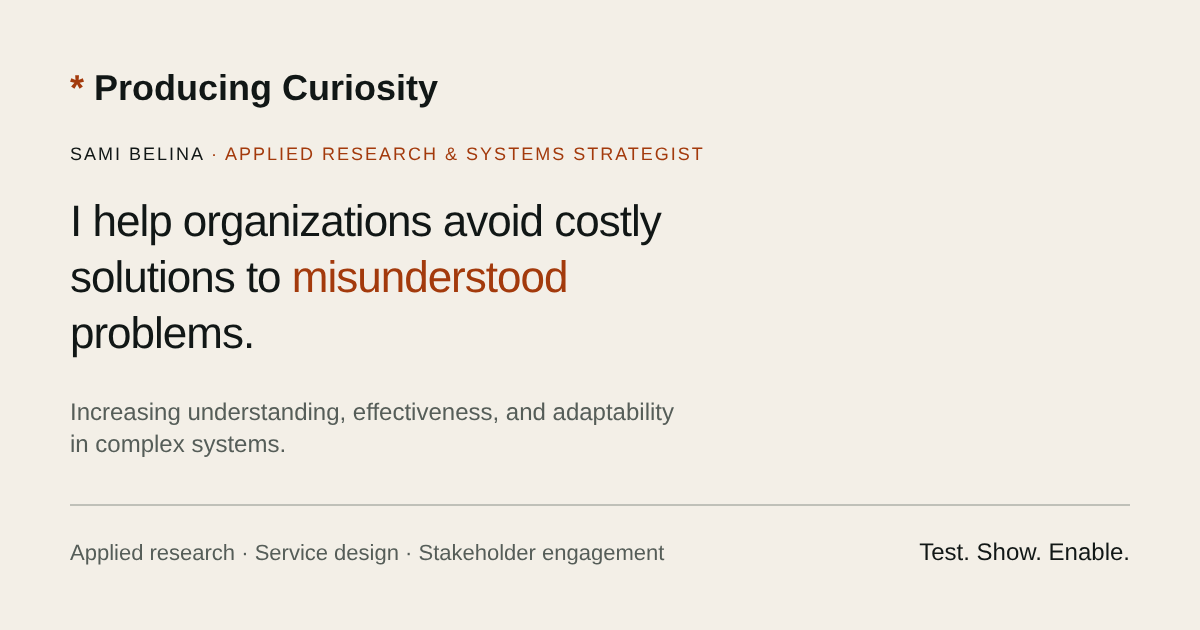
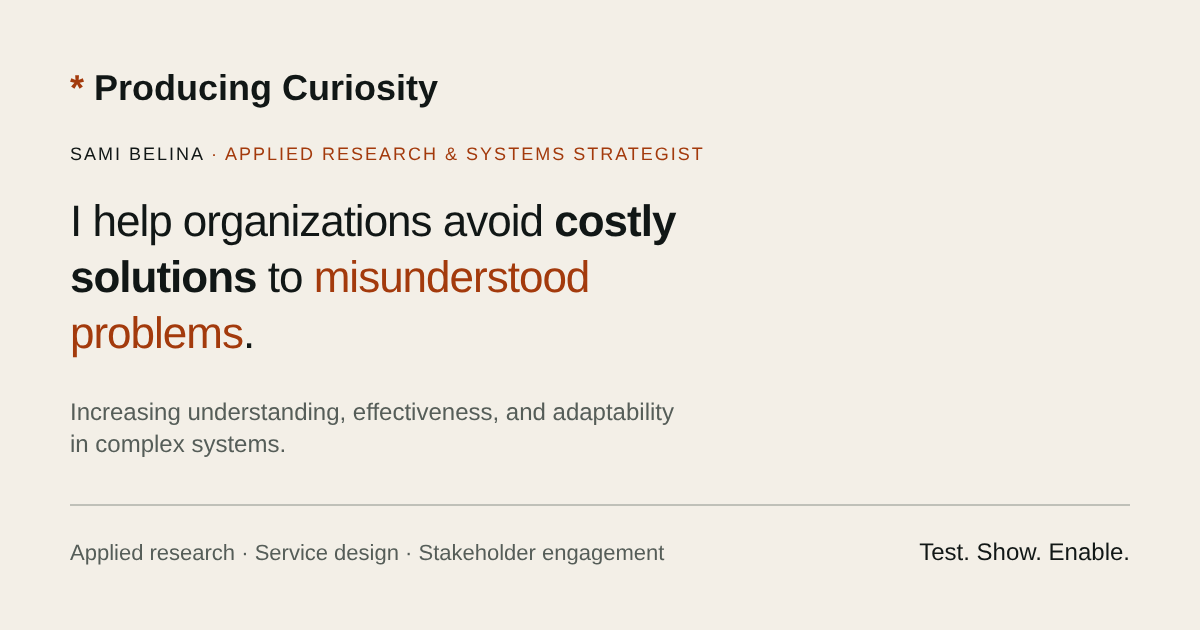
Headlines for the scanning reader; two emphases in the H1
Owner direction, 23 November: emphasize "costly solutions" and
"misunderstood problems" in two different ways, and review the
headlines for the designed-for reader.

- H1: "costly solutions" in heavier ink (the cost to avoid);
  "misunderstood problems" in orange (the turn). Same on the social
  preview image.
- Reader: a hiring leader or institutional decision-maker skimming
  10-60 seconds for who, which problem, proof of change, own role,
  method, contact. Recorded in the deck foundation.
- Case titles lead with the outcome or turn, one accent each, taken from
  the owner's deck where it had one: "Complete" now means verified; Two
  measures, kept apart; 38 proposals. 8 shared challenges; Usability is
  not recommendation; Organized by office. Asked by step; Passing
  checks. A separate question. Titles render the accent in headings and
  plain text in metadata, search and labels.
- Domain labels above case cards on the homepage and Investigations.
- Section headings: "Three problems, and what changed." replaces a
  rhetorical question; contact asks "Have a problem that keeps coming
  back?"
- Release prepared again for the changed titles.

Verified: build passed; affected specs 181 passed in Chromium, WebKit
and Firefox.

Claude-Session: https://claude.ai/code/session_01NYEdYjHJJXk5SrJAuyr7gg

Changed region(s): [[0.0617, 0.3921, 0.4933, 0.4825], [0.0617, 0.5127, 0.2158, 0.573], [0.4625, 0.3317, 0.5858, 0.3921]]

diff --git a/src/reading/ReadingPage.tsx b/src/reading/ReadingPage.tsx
@@ -11,7 +11,8 @@ import { inquirySpaceTitle } from '../inquiry-space/paths'
 import React, { type ReactNode } from 'react'
 import type { PublicEntry, PublicEvidence } from '../content/model'
 import type { ReadingPageData, ReadingContext } from './page-data'
-import { Stressed } from '../content/emphasis'
+import { plainText, Stressed } from '../content/emphasis'
+import { caseLabels } from '../content/primary-evidence'
 export type { ReadingPageData } from './page-data'
 
 type Block = PublicEntry['blocks'][number]
@@ -124,7 +125,7 @@ function Connections({ entry, projection }: { entry: PublicEntry; projection: Re
                 const evidence = projection.evidence.find(item => item.id === id)
                 return evidence ? <EvidenceDisclosure evidence={evidence} key={id}/> : null
               })}
-              <a className="reading-related-link" href={publicPath(other.path)}>{other.title} <span aria-hidden="true">→</span></a>
+              <a className="reading-related-link" href={publicPath(other.path)}>{plainText(other.title)} <span aria-hidden="true">→</span></a>
             </li>
           )
         })}
@@ -145,11 +146,11 @@ function EntryView({ entry, page }: { entry: PublicEntry; page: ReadingPageData 
         <a href={publicPath("/")}>Home</a><span aria-hidden="true">/</span>
         {entry.kind === 'investigation' ? <><a href={publicPath("/investigations/")}>Investigations</a><span aria-hidden="true">/</span></> : null}
         {inquiry && page.inquirySpacePath ? <><a href={publicPath(page.inquirySpacePath)}>{inquirySpaceTitle}</a><span aria-hidden="true">/</span></> : null}
-        <span aria-current="page">{entry.title}</span>
+        <span aria-current="page">{plainText(entry.title)}</span>
       </nav>
       <header className="reading-entry-header">
         <p className="reading-kicker">{inquiry ? inquiryForms[inquiry.form] : poetry ? 'Poetry' : entry.kind}{page.fixture ? ' · synthetic fixture' : page.illustrative ? ' · invented example' : page.candidate ? ' · unapproved candidate' : ''}</p>
-        <h1 id="reading-title" style={entry.kind === 'investigation' && !page.fixture ? { viewTransitionName: `case-${entry.slug}` } as React.CSSProperties : undefined}>{entry.title}</h1>
+        <h1 id="reading-title" style={entry.kind === 'investigation' && !page.fixture ? { viewTransitionName: `case-${entry.slug}` } as React.CSSProperties : undefined}><Stressed text={entry.title} heading/></h1>
         {page.candidate ? <p className="reading-candidate-notice" role="note">Owner-review preview. This candidate is not approved or published, and no statement has an attached source yet.</p> : null}
         <p className="reading-summary"><Stressed text={entry.summary}/></p>
         {entry.investigation ? <InvestigationVisual composition={entry.investigation.composition} {...entry.investigation.visual} /> : null}
@@ -182,7 +183,7 @@ function EntryView({ entry, page }: { entry: PublicEntry; page: ReadingPageData 
         <h2 id="deep-dive-title">Deep dive</h2>
         <p>This page is the public version. A longer version, with the process, working artifacts and sources in more detail, is available on request.</p>
         <p><a href={publicPath(`/deep-dive/${entry.slug}/`)}>Open the deep dive <span aria-hidden="true">→</span></a> <span className="reading-deep-dive-note">Password required.</span></p>
-        <p><a href={`mailto:${recruiterContact.email}?subject=${encodeURIComponent(`Deep dive access: ${entry.title}`)}`}>Request access by email</a></p>
+        <p><a href={`mailto:${recruiterContact.email}?subject=${encodeURIComponent(`Deep dive access: ${plainText(entry.title)}`)}`}>Request access by email</a></p>
       </section> : null}
       <div className="reading-body">
         {entry.blocks.map(block => <section className={`reading-block reading-block--${block.type}`} id={blockAnchor(block, entry)} key={block.id}><ContentBlock block={block} page={page} /></section>)}
@@ -203,7 +204,7 @@ function Collection({ projection, fixture, candidate = false }: { projection: Re
   return (
     <>
       <header className="reading-collection-header"><p className="reading-kicker">{fixture ? 'Seeing What Systems Miss' : practiceAreas.join(' · ')}</p><h1 id="reading-title">Investigations</h1><p className="reading-summary">Questions, evidence, contributions, and limits. Read the work directly, then follow a connection when its explanation is useful.</p></header>
-      {investigations.length ? <ul className="reading-cards">{investigations.map(entry => <li key={entry.id}><p className="reading-kicker">Investigation{candidate ? ' · unapproved candidate' : ''}</p><h2 style={entry.slug && !fixture ? { viewTransitionName: `case-${entry.slug}` } as React.CSSProperties : undefined}><a href={publicPath(entry.path)}>{entry.title}</a></h2>{entry.status ? <p className="reading-card-status"><CaseStatus status={entry.status}/></p> : null}{entry.stakes ? <p className="reading-card-stakes"><span className="reading-card-label">At stake:</span> <Stressed text={entry.stakes}/></p> : null}<p><Stressed text={entry.summary ?? ''}/></p><p className="reading-card-links"><a href={publicPath(entry.path)} aria-label={`Public version: ${entry.title}`}>Public version <span aria-hidden="true">→</span></a>{entry.deepDive && entry.slug && !candidate ? <> <a href={publicPath(`/deep-dive/${entry.slug}/`)} aria-label={`Deep dive, password required: ${entry.title}`}>Deep dive <span className="reading-deep-dive-note">(password)</span> <span aria-hidden="true">→</span></a></> : null}</p></li>)}</ul> : <div className="reading-empty"><p>No investigation is published in this edition yet. Each case awaits source, privacy and publication review.</p><p><a href={publicPath('/practice/')}>Read the inquiry practice →</a></p></div>}
+      {investigations.length ? <ul className="reading-cards">{investigations.map(entry => <li key={entry.id}><p className="reading-kicker">Investigation{entry.slug && caseLabels[entry.slug] ? ` · ${caseLabels[entry.slug]}` : ''}{candidate ? ' · unapproved candidate' : ''}</p><h2 style={entry.slug && !fixture ? { viewTransitionName: `case-${entry.slug}` } as React.CSSProperties : undefined}><a href={publicPath(entry.path)}><Stressed text={entry.title} heading/></a></h2>{entry.status ? <p className="reading-card-status"><CaseStatus status={entry.status}/></p> : null}{entry.stakes ? <p className="reading-card-stakes"><span className="reading-card-label">At stake:</span> <Stressed text={entry.stakes}/></p> : null}<p><Stressed text={entry.summary ?? ''}/></p><p className="reading-card-links"><a href={publicPath(entry.path)} aria-label={`Public version: ${plainText(entry.title)}`}>Public version <span aria-hidden="true">→</span></a>{entry.deepDive && entry.slug && !candidate ? <> <a href={publicPath(`/deep-dive/${entry.slug}/`)} aria-label={`Deep dive, password required: ${plainText(entry.title)}`}>Deep dive <span className="reading-deep-dive-note">(password)</span> <span aria-hidden="true">→</span></a></> : null}</p></li>)}</ul> : <div className="reading-empty"><p>No investigation is published in this edition yet. Each case awaits source, privacy and publication review.</p><p><a href={publicPath('/practice/')}>Read the inquiry practice →</a></p></div>}
       {patterns.length ? <section className="reading-patterns" aria-labelledby="reading-patterns-title"><p className="reading-kicker">Connected interpretation</p><h2 id="reading-patterns-title">Patterns to investigate</h2><ul>{patterns.map(entry => <li key={entry.id}><a href={publicPath(entry.path)}>{entry.title}</a><p>{entry.summary}</p></li>)}</ul></section> : null}
     </>
   )

diff --git a/src/BuildIndex.tsx b/src/BuildIndex.tsx
@@ -34,7 +34,7 @@ export default function BuildIndex({ investigations = [] }: { investigations?: r
   const introduction = useHomeIntroduction()
   const evidenceHref = primaryEvidenceHref(investigations)
   const selected = selectedInvestigations(investigations)
-  const pairs = investigations.filter(entry => entry.slug && entry.visual).map(entry => ({ slug: entry.slug!, label: caseLabels[entry.slug!] ?? entry.title, left: plainText(entry.visual!.left), right: plainText(entry.visual!.right), explanation: plainText(entry.visual!.explanation), href: publicPath(entry.path) }))
+  const pairs = investigations.filter(entry => entry.slug && entry.visual).map(entry => ({ slug: entry.slug!, label: caseLabels[entry.slug!] ?? plainText(entry.title), left: plainText(entry.visual!.left), right: plainText(entry.visual!.right), explanation: plainText(entry.visual!.explanation), href: publicPath(entry.path) }))
   useEffect(() => {
     const followLegacyFragment = () => {
       let fragment: string
@@ -50,7 +50,7 @@ export default function BuildIndex({ investigations = [] }: { investigations?: r
       <section className="pc-hero pc-hero--text" aria-labelledby="index-title">
         <div className="pc-hero-copy">
           <p className="pc-kicker pc-identity"><span className="pc-identity-name">Sami Belina</span> <span aria-hidden="true">·</span> {professionalIdentity}</p>
-          <h1 id="index-title">{homeHeadline.lead}<em className="pc-accent">{homeHeadline.accent}</em>{homeHeadline.end}</h1>
+          <h1 id="index-title">{homeHeadline.lead}<strong className="pc-weight">{homeHeadline.cost}</strong>{homeHeadline.middle}<em className="pc-accent">{homeHeadline.accent}</em>{homeHeadline.end}</h1>
           <p className="pc-lead">I investigate the human, informational, and operational conditions shaping outcomes—helping institutions uncover <strong>overlooked problems</strong>, redesign how their systems work, and strengthen people’s ability to make informed decisions and navigate change.</p>
           <p className="pc-hero-action pc-cluster"><a className="pc-text-link" href={publicPath(evidenceHref)}>{evidenceHref === '/investigations/' ? 'Examine the investigations' : 'Read the Claims investigation'} <span aria-hidden="true">→</span></a> <a className="pc-text-link pc-secondary-link" href={publicPath('/practice/')}>Explore my approach <span aria-hidden="true">→</span></a>{recruiterContact.resumeHref ? <> <a className="pc-text-link pc-secondary-link" href={publicPath(recruiterContact.resumeHref)}>View my résumé (PDF)</a></> : null}</p>
           <p className="pc-value">{valueLine}</p>
@@ -64,10 +64,11 @@ export default function BuildIndex({ investigations = [] }: { investigations?: r
       </section>
       <ResultsStrip investigations={investigations}/>
       {selected.length ? <section className="pc-section pc-selected" aria-labelledby="pc-selected-title">
-        <div className="pc-section-heading"><p className="pc-kicker">Selected investigations</p><h2 id="pc-selected-title">What becomes possible when we investigate the problem first?</h2></div>
+        <div className="pc-section-heading"><p className="pc-kicker">Selected investigations</p><h2 id="pc-selected-title">Three problems, and what <em className="pc-accent">changed</em>.</h2></div>
         <ol className="pc-selected-list">{selected.map(entry => <li key={entry.id}>
+          {entry.slug && caseLabels[entry.slug] ? <p className="pc-kicker pc-selected-domain">{caseLabels[entry.slug]}</p> : null}
           {entry.status ? <p className="pc-selected-status"><CaseStatus status={entry.status}/></p> : null}
-          <h3 style={entry.slug ? { viewTransitionName: `case-${entry.slug}` } as React.CSSProperties : undefined}><a href={publicPath(entry.path)}>{entry.title}</a></h3>
+          <h3 style={entry.slug ? { viewTransitionName: `case-${entry.slug}` } as React.CSSProperties : undefined}><a href={publicPath(entry.path)}><Stressed text={entry.title} heading/></a></h3>
           {entry.stakes ? <p className="pc-selected-stakes"><span className="pc-selected-label">At stake:</span> <Stressed text={entry.stakes}/></p> : null}
           {entry.brief ? <p><span className="pc-selected-label">What changed:</span> <Stressed text={entry.brief.result}/></p> : <p><Stressed text={entry.summary}/></p>}
           <p className="pc-selected-links"><a href={publicPath(entry.path)}>Public version <span aria-hidden="true">→</span></a>{entry.deepDive && entry.slug ? <> <a href={publicPath(`/deep-dive/${entry.slug}/`)}>Deep dive <span className="pc-selected-note">(password)</span> <span aria-hidden="true">→</span></a></> : null}</p>
@@ -101,7 +102,7 @@ export default function BuildIndex({ investigations = [] }: { investigations?: r
       </nav>
       <LensInterlude compact/>
       <section id="contact" className="pc-section pc-contact" aria-labelledby="contact-title">
-        <p className="pc-kicker">Work together</p><h2 id="contact-title">What needs a better explanation?</h2>
+        <p className="pc-kicker">Work together</p><h2 id="contact-title">Have a problem that keeps <em className="pc-accent">coming back</em>?</h2>
         <p>If an organization is investing time, money, or attention in a persistent problem without understanding why it continues, that is where my work begins.</p>
         <RecruiterActions label="Contact Sami Belina"/>
         <p className="pc-contact-secondary"><a href="https://www.linkedin.com/in/transplantsam">Professional experience on LinkedIn <ExternalArrow/></a></p>

diff --git a/content/release/cases.ts b/content/release/cases.ts
@@ -54,6 +54,7 @@ const claimsInvestigation = claimsCandidate.investigation!
 const claims: Entry = {
   ...claimsCandidate,
   revision: 3,
+  title: '“Complete” now means ==verified==.',
   editorialState: 'approved', visibility: 'public', authorIds: [owner], updatedAt: reviewed,
   summary: 'Total-loss claims could be paid *before* anyone confirmed the paperwork was sufficient. I traced where problems surfaced, **leadership moved the check before payment**, and the guides and training I built from administrators’ knowledge are used statewide.',
   evidenceIds: [caseEvidence.claims.id],
@@ -99,7 +100,7 @@ const claims: Entry = {
 
 const trust: Entry = {
   ...base('4c5ececa-e308-4a31-9566-b3cd2fc7a0b2', 'brand-research', '2026-11-22T00:00:00Z'),
-  title: 'Agreement is not trust.',
+  title: 'Two measures, kept ==apart==.',
   summary: 'A trust study could have produced one favorability score. I designed the survey’s measures so **agreement and trust influence were asked separately**, and a year later the readout is still cited in strategy briefs.',
   contribution: 'I set the general-to-specific interview sequence, proposed the perception-mapping framework and co-built it with two marketing and analytics leads, and separated agreement from trust influence in the survey. The external research partner conducted the interviews and fielded the survey.',
   evidenceIds: [caseEvidence.trust.id],
@@ -156,7 +157,7 @@ const trust: Entry = {
 
 const ai: Entry = {
   ...base('8a218cf2-1ad6-461a-af6e-3f7ccadd9429', 'enterprise-ai', '2026-11-20T00:00:00Z'),
-  title: '38 proposals. Eight shared challenges.',
+  title: '38 proposals. ==8== shared challenges.',
   summary: 'Nearly forty AI requests arrived without a shared way to compare them. I led a synthesis into eight challenge areas that teams could discuss and choose among, then coached in the sprint, which now runs every year.',
   contribution: 'I recognized the need for a synthesis and led it, tested the groupings with the sprint facilitator, then walked them through with innovation leadership, and was a lead and coach in the sprint, leading two ideas with one combined team. The innovation team owned the program.',
   evidenceIds: [caseEvidence.ai.id],
@@ -209,7 +210,7 @@ const ai: Entry = {
 
 const telematics: Entry = {
   ...base('1bb43e26-f27a-4493-b16f-e68682838023', 'telematics', '2026-11-20T00:00:00Z'),
-  title: 'Usability is not recommendation.',
+  title: 'Usability is ==not== recommendation.',
   summary: 'I was asked why participants were leaving a large discount program built around a usage-based insurance app. With unreliable audio, I recovered findings from on-screen behavior, and showed that a usable app and a recommended program are different questions.',
   contribution: 'I analyzed moderated sessions that others conducted, recovered findings from on-screen behavior, wrote the report and confirmed both scores, made opportunity recommendations, and took the report to the marketing analytics team.',
   evidenceIds: [caseEvidence.telematics.id],
@@ -262,7 +263,7 @@ const telematics: Entry = {
 
 const civic: Entry = {
   ...base('873dde95-923f-41a0-bd19-55041eb4aae1', 'civic-service', '2026-11-20T00:00:00Z'),
-  title: 'Organized by office. Asked by step.',
+  title: 'Organized by office. Asked by ==step==.',
   summary: 'Residents’ voting questions followed the steps in front of them, not the offices that publish the answers. As a volunteer co-founder of Vote Huntsville, I helped build one plain-language answer source used across every channel.',
   contribution: 'I co-founded the nonpartisan Vote Huntsville with other directors and volunteers, all unpaid. We gathered residents’ questions and built one shared, plain-language answer source used across channels.',
   evidenceIds: [caseEvidence.civic.id],
@@ -311,7 +312,7 @@ const civic: Entry = {
 
 const accessibility: Entry = {
   ...base('36e61934-b32a-4b04-a9c2-d6f99b73b5a2', 'accessibility-ai', '2026-11-20T00:00:00Z'),
-  title: 'Passing checks. A separate question.',
+  title: 'Passing checks. A ==separate== question.',
   summary: 'In an AI-assisted development experiment I originated, the accessibility agent restored code we removed on purpose. A planned human review still raised a question the automated checks did not settle.',
   contribution: 'I originated the experiment and co-facilitated it, the only participant from outside the department. A colleague advocated the idea to the organizer, and a developer conducted the human review.',
   evidenceIds: [caseEvidence.accessibility.id],

diff --git a/scripts/prerender.tsx b/scripts/prerender.tsx
@@ -79,7 +79,7 @@ async function page(file: string, data: ReadingPageData, title: string, descript
   await mkdir(path.dirname(target), { recursive: true }); await writeFile(target, html)
 }
 await page('investigations/index.html', { ...readingPageData(projection, 'collection', fixture), ...(candidate ? { candidate: true } : {}) }, 'Investigations — Producing Curiosity', 'Read investigations with evidence, contribution, limitations, and explained connections.', '/investigations/', reading.entries.length > 0)
-for (const entry of projection.entries) await page(`${entry.path.slice(1)}index.html`, { ...readingPageData(projection, 'entry', fixture, entry.id, fixture && entry.inquirySpace ? inquirySpacePath : undefined), ...(candidate ? { candidate: true } : {}) }, `${entry.title}${candidate ? ' — unapproved candidate' : ''} — Producing Curiosity`, plainText(entry.summary), entry.path)
+for (const entry of projection.entries) await page(`${entry.path.slice(1)}index.html`, { ...readingPageData(projection, 'entry', fixture, entry.id, fixture && entry.inquirySpace ? inquirySpacePath : undefined), ...(candidate ? { candidate: true } : {}) }, `${plainText(entry.title)}${candidate ? ' — unapproved candidate' : ''} — Producing Curiosity`, plainText(entry.summary), entry.path)
 for (const entry of illustrativeEntries) await page(`${entry.path.slice(1)}index.html`, { ...readingPageData(inquiryProjection, 'entry', false, entry.id, inquirySpacePath), illustrative: true }, `${entry.title} — synthetic illustration · Producing Curiosity`, entry.summary, entry.path, false)
 await page('404.html', readingPageData(projection, 'not-found', fixture), 'Page not found — Producing Curiosity', 'This reading is not available.')
 for (const [kind, metadata] of Object.entries(foundationPages)) {
@@ -116,8 +116,8 @@ for (const asset of verifyPublicAssets(projection, id => {
 await writeFile(path.join(output, 'public-content.json'), JSON.stringify(projection))
 if (preview) await writeFile(path.join(output, '_headers'), '/*\n  X-Robots-Tag: noindex\n')
 await writeFile(path.join(output, 'route-manifest.json'), JSON.stringify({ schemaVersion: 1, fixture: preview, ...(candidate ? { candidate: true } : {}), routes: [...routes.map(publicPath), ...proposalRoutes.map(publicPath)], fragments: fragmentRedirects }))
-await writeFile(path.join(output, 'search-index.json'), JSON.stringify(projection.entries.map(({ id, path, title, summary }) => ({ id, path, title, summary: plainText(summary) }))))
-await writeFile(path.join(output, 'graph-index.json'), JSON.stringify({ nodes: projection.entries.map(({ id, path, title, kind }) => ({ id, path, title, kind })), edges: projection.relationships.filter(relationship => !relationship.exploration) }))
+await writeFile(path.join(output, 'search-index.json'), JSON.stringify(projection.entries.map(({ id, path, title, summary }) => ({ id, path, title: plainText(title), summary: plainText(summary) }))))
+await writeFile(path.join(output, 'graph-index.json'), JSON.stringify({ nodes: projection.entries.map(({ id, path, title, kind }) => ({ id, path, title: plainText(title), kind })), edges: projection.relationships.filter(relationship => !relationship.exploration) }))
 const indexableRoutes = preview || publicBase() !== '/' ? [] : ['/', '/experiments/reveal-hidden-work/', ...Object.values(foundationPages).filter(page => page.indexable).map(page => page.path), ...(reading.entries.length ? ['/investigations/'] : []), ...projection.entries.map(entry => entry.path)]
 await writeFile(path.join(output, 'sitemap.xml'), `<?xml version="1.0" encoding="UTF-8"?><urlset xmlns="http://www.sitemaps.org/schemas/sitemap/0.9">${indexableRoutes.map(route => `<url><loc>${origin}${route}</loc></url>`).join('')}</urlset>`)
 await mkdir('docs/codex/generated', { recursive: true })

diff --git a/src/content/recruiter.ts b/src/content/recruiter.ts
@@ -14,7 +14,8 @@ export const tagline = 'Increasing understanding, effectiveness, and adaptabilit
  * institutional value. It supersedes "I diagnose gaps in understanding and design the conditions that
  * empower leaders to make informed decisions." The accent word carries the turn.
  */
-export const homeHeadline = { lead: 'I help organizations avoid costly solutions to ', accent: 'misunderstood', end: ' problems.' } as const
+/** Two emphases, two meanings (owner direction, 23 November): the cost to avoid in bold ink, the turn in orange. */
+export const homeHeadline = { lead: 'I help organizations avoid ', cost: 'costly solutions', middle: ' to ', accent: 'misunderstood problems', end: '.' } as const
 /** What the work makes possible for an institution: positioning, not a measured saving. */
 export const valueLine = 'My work helps institutions determine what needs to change, what existing resources can accomplish, and where further investment is justified.'
 export const possibilities = [
@@ -22,7 +23,7 @@ export const possibilities = [
   { title: 'Better choices', question: 'Which response is justified?' },
   { title: 'Better implementation', question: 'How can the change work in practice?' },
 ] as const
-export const homeHeadlineText = `${homeHeadline.lead}${homeHeadline.accent}${homeHeadline.end}`
+export const homeHeadlineText = `${homeHeadline.lead}${homeHeadline.cost}${homeHeadline.middle}${homeHeadline.accent}${homeHeadline.end}`
 
 /** Public contact actions repeated on the homepage. */
 export const recruiterContact = {

diff --git a/tests/professional-alignment.spec.ts b/tests/professional-alignment.spec.ts
@@ -42,7 +42,7 @@ test('the first screen names Sami, the capability, the H1 and the evidence path'
 
 test('selected investigations show stakes, what changed, and the public and deep-dive versions side by side', async ({ page }) => {
   await page.goto(`${origin}/`)
-  const section = page.getByRole('region', { name: 'What becomes possible when we investigate the problem first?' })
+  const section = page.getByRole('region', { name: 'Three problems, and what changed.' })
   const items = section.getByRole('listitem')
   await expect(items).toHaveCount(3)
   for (const [index, slug] of selectedSlugs.entries()) {
@@ -136,7 +136,7 @@ test('the compact "How I got here" interlude sits at the base of the homepage, a
     const headings = await page.locator('main h2').allInnerTexts()
     const lens = headings.findIndex(text => /how i got here/i.test(text))
     expect(lens).toBeGreaterThan(headings.indexOf('Test. Show. Enable.'))
-    expect(lens).toBeLessThan(headings.indexOf('What needs a better explanation?'))
+    expect(lens).toBeLessThan(headings.indexOf('Have a problem that keeps coming back?'))
     const interlude = page.getByRole('region', { name: 'How I got here' })
     await expect(interlude.locator('blockquote')).toHaveText('Inspiration is needed in geometry, just as much as in poetry.')
     await expect(interlude.locator('.pc-interlude-quote figcaption')).toHaveText('— Alexander Pushkin')

diff --git a/tests/evidence-first.spec.ts b/tests/evidence-first.spec.ts
@@ -7,7 +7,7 @@ import { digestRecord } from '../src/content/projection'
 const origin = 'http://127.0.0.1:4175'
 // Owner decision, 23 November (second): lead with the institutional value.
 const h1 = 'I help organizations avoid costly solutions to misunderstood problems.'
-const h1Markup = 'I help organizations avoid costly solutions to <em class="pc-accent">misunderstood</em> problems.'
+const h1Markup = 'I help organizations avoid <strong class="pc-weight">costly solutions</strong> to <em class="pc-accent">misunderstood problems</em>.'
 const claimsPath = '/investigations/claims-operations/'
 const candidateCanary = 'CLAIMS_CANDIDATE_UNAPPROVED_16NOV'
 const entry = (id: string, slug: string) => ({ id, slug, path: `/investigations/${slug}/`, title: slug, summary: `${slug} summary` })
@@ -76,7 +76,7 @@ test('one click reaches the Claims investigation from the first screen, by keybo
       await action.focus()
       await page.keyboard.press('Enter')
       await expect(page).toHaveURL(`${origin}${claimsPath}`)
-      await expect(page.getByRole('heading', { level: 1 })).toHaveText('When “complete” still generated work.')
+      await expect(page.getByRole('heading', { level: 1 })).toHaveText('“Complete” now means verified.')
     } finally { await context.close() }
   }
 })

diff --git a/src/content/emphasis.tsx b/src/content/emphasis.tsx
@@ -12,10 +12,11 @@ import React from 'react'
  */
 const pattern = /(==[^=\n]+==|\*\*[^*\n]+\*\*|\*[^*\n]+\*)/g
 
-export function Stressed({ text }: { text: string }) {
+/** In headings, `heading` renders the turn as the headline accent (orange, headline weight) instead of bold. */
+export function Stressed({ text, heading = false }: { text: string; heading?: boolean }) {
   const parts = text.split(pattern)
   return <>{parts.map((part, index) => {
-    if (part.startsWith('==') && part.endsWith('==') && part.length > 4) return <strong key={index} className="pc-turn">{part.slice(2, -2)}</strong>
+    if (part.startsWith('==') && part.endsWith('==') && part.length > 4) return heading ? <em key={index} className="pc-accent">{part.slice(2, -2)}</em> : <strong key={index} className="pc-turn">{part.slice(2, -2)}</strong>
     if (part.startsWith('**') && part.endsWith('**') && part.length > 4) return <strong key={index}>{part.slice(2, -2)}</strong>
     if (part.startsWith('*') && part.endsWith('*') && part.length > 2) return <em key={index}>{part.slice(1, -1)}</em>
     return <React.Fragment key={index}>{part}</React.Fragment>

diff --git a/tests/oct27-editorial.spec.ts b/tests/oct27-editorial.spec.ts
@@ -11,7 +11,7 @@ test('review candidate keeps legacy identities while removing misleading public 
   // The retired archive held the previous thesis; the current edition publishes only approved cases (23 November).
   void thesis
   const current = await readFile('dist/index.html', 'utf8')
-  expect(current).toContain('I help organizations avoid costly solutions to <em class="pc-accent">misunderstood</em> problems.')
+  expect(current).toContain('I help organizations avoid <strong class="pc-weight">costly solutions</strong> to <em class="pc-accent">misunderstood problems</em>.')
   expect(current).toContain('Test. Show. Enable.')
   const everything = (await Promise.all(['dist/index.html', 'dist/public-content.json', 'dist/investigations/index.html'].map(file => readFile(file, 'utf8')))).join('\n')
   for (const withdrawn of ['18% → 7.6%', 'PASS → FAIL', 'agent was adopted', 'research recovery method for claims']) expect(everything).not.toContain(withdrawn)

diff --git a/src/design/ResultsStrip.tsx b/src/design/ResultsStrip.tsx
@@ -1,6 +1,7 @@
 import React from 'react'
 import { publicPath } from '../public-path'
 import type { InvestigationSummary } from '../content/primary-evidence'
+import { plainText } from '../content/emphasis'
 
 const basisLabels = { owner_estimate: 'Approximate · my estimate', approximate: 'Approximate', platform_reported: 'Platform-reported', measured: 'Measured' } as const
 
@@ -18,7 +19,7 @@ export function ResultsStrip({ investigations }: { investigations: readonly Inve
       <p className="pc-result-value"><strong>{figure.value}</strong> <span>{figure.unit}</span></p>
       <p className="pc-result-label">{figure.label}</p>
       <p className="pc-result-basis">{basisLabels[figure.basis]}. {figure.qualifier}</p>
-      <a href={publicPath(entry.path)}>{entry.title} <span aria-hidden="true">→</span></a>
+      <a href={publicPath(entry.path)}>{plainText(entry.title)} <span aria-hidden="true">→</span></a>
     </li>)}</ul>
   </section>
 }

diff --git a/src/design/foundation.css b/src/design/foundation.css
@@ -297,6 +297,8 @@ html[data-edition="current"] body { margin: 0; min-width: 320px; background: var
 
 /* The accent word that carries a headline's turn (DECK-FOUNDATION §1). Still <em> for assistive tech and print. */
 .pc-accent { font-style: normal; color: var(--signal); }
+/* The second headline emphasis: the cost, in ink at a heavier weight. Never orange, never underlined. */
+.pc-main :is(h1, h2, h3) .pc-weight { font-weight: 720; color: inherit; }
 
 /* Institutional value homepage (23 November). */
 .pc-value { font-size: 1.05rem; max-width: 52ch; margin: 0 0 1.25rem; }
@@ -350,3 +352,5 @@ html[data-edition="current"] body { margin: 0; min-width: 320px; background: var
 .pc-hero.pc-hero--text { grid-template-columns: minmax(0, 1fr); }
 .pc-hero--text .pc-hero-copy { max-width: 52rem; }
 .pc-pattern-pairs .pc-kicker { margin: 0; }
+
+.pc-selected-list .pc-selected-domain { margin: 0 0 .35rem; }

diff --git a/tests/interactions.spec.ts b/tests/interactions.spec.ts
@@ -134,7 +134,7 @@ test('the pattern illustration sits after the cases, with every case distinction
     await page.goto(`${origin}/`)
     await expect(page.locator('.pc-hero .pc-inquiry-figure')).toHaveCount(0)
     const headings = await page.locator('main h2').allInnerTexts()
-    expect(headings.indexOf('Related. Not equivalent.')).toBeGreaterThan(headings.indexOf('What becomes possible when we investigate the problem first?'))
+    expect(headings.indexOf('Related. Not equivalent.')).toBeGreaterThan(headings.indexOf('Three problems, and what changed.'))
     const pairs = page.getByRole('list', { name: "Each investigation's distinction" }).getByRole('link')
     await expect(pairs).toHaveCount(6)
     await expect(pairs.first()).toHaveAccessibleName('Delivered is not Verified')
